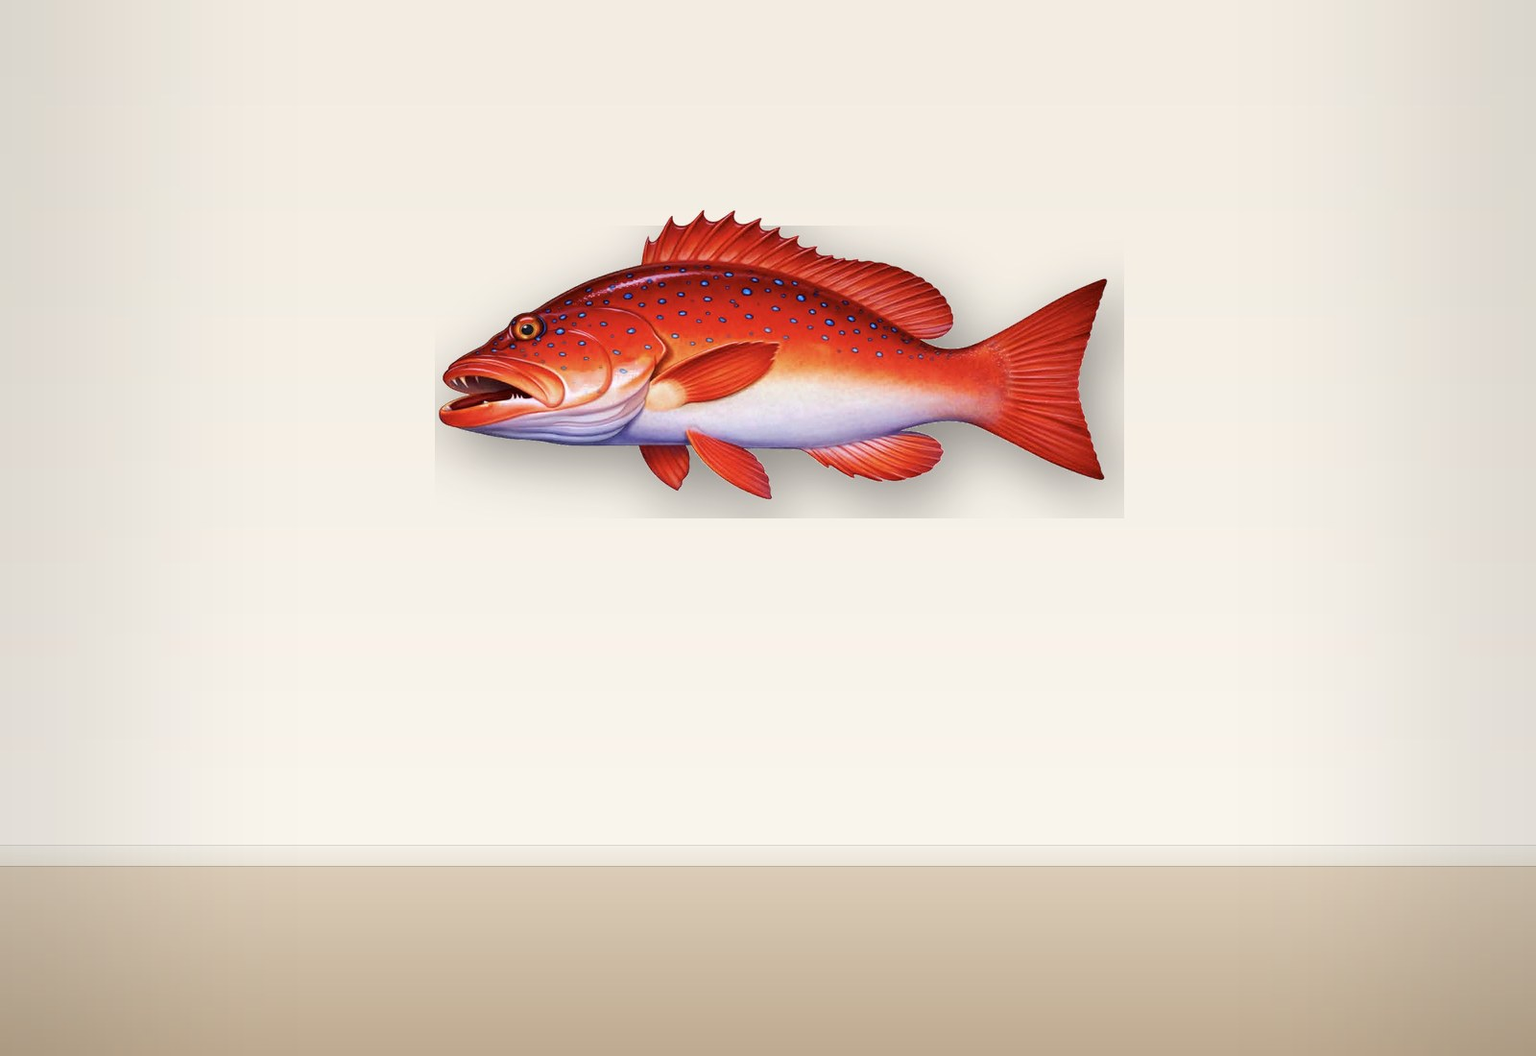
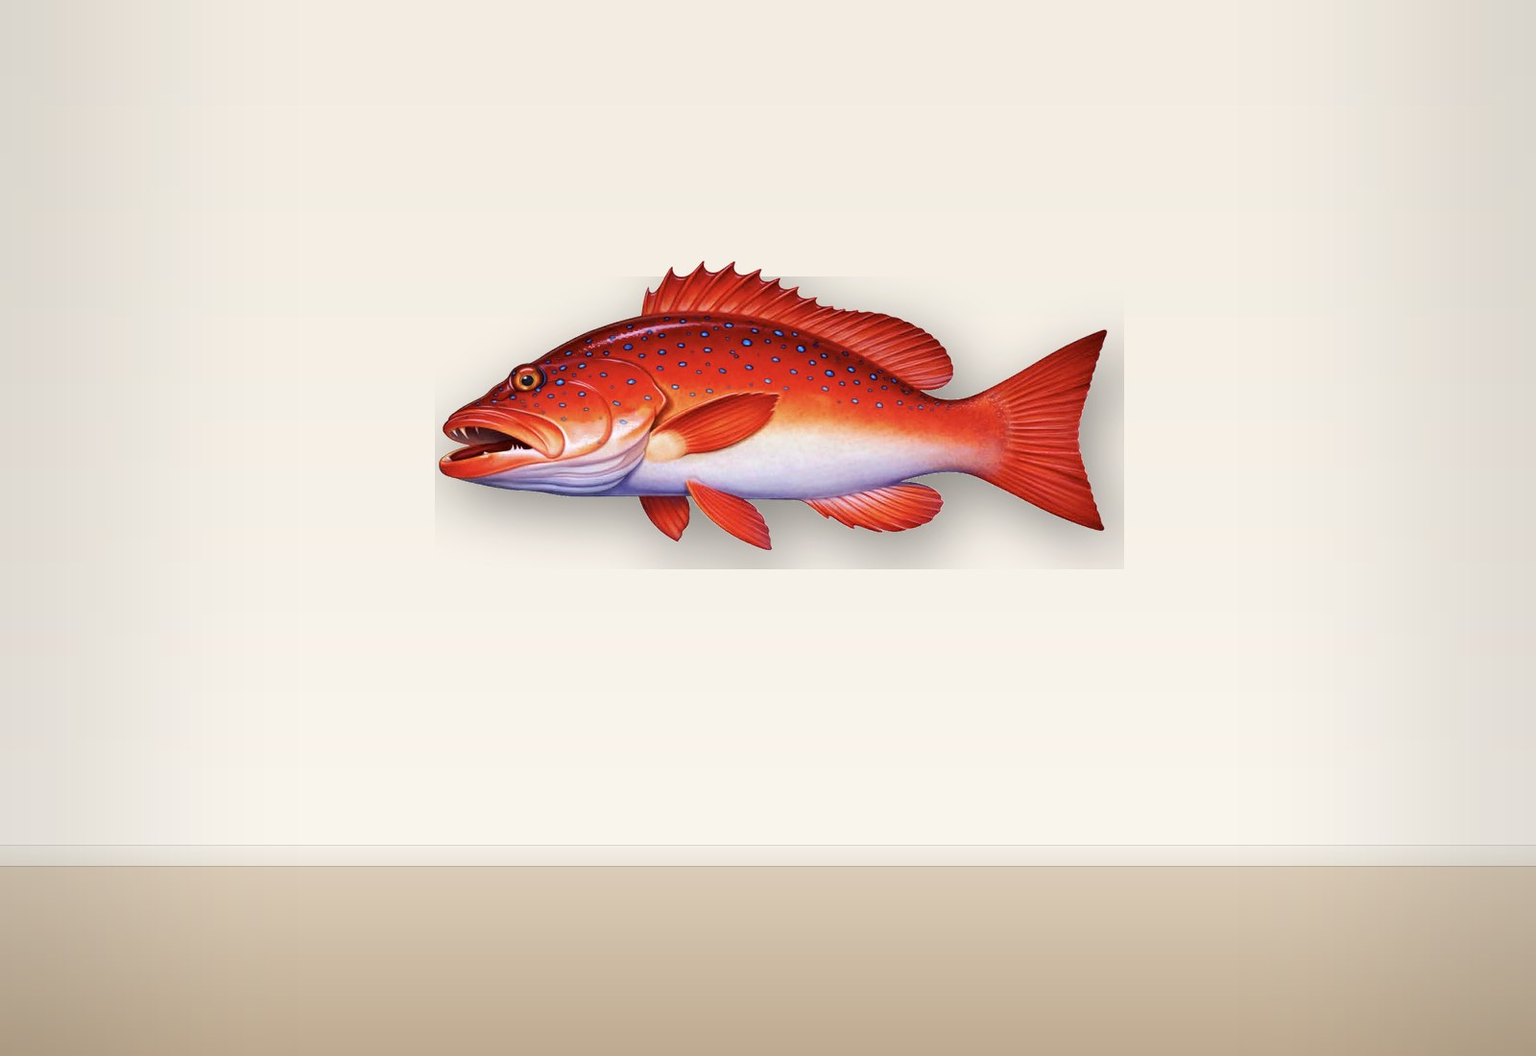
Wall mockups: full catalogue + auto-add to PDP gallery
Generated wall-mounted mockups for all 89 products via
scripts/wall-mockup-batch.py (the four pieces that don't have a real
photo yet — Dhufish, Kingfish, Bream, Permit, etc — were skipped, no
source image to composite).

Wired into the PDP gallery with a small auto-derivation in app.js:
each product's image path gets a `-wall.jpg` sibling looked up on the
fly. Result:
- Single-image products now show a 2-thumbnail gallery (Cutout / On the wall)
- Multi-image products (Coral Trout, HQ Monaro, Australian Sport-Fish
  Map, Barramundi, Spangled Emperor, Maori Wrasse, VH Charger, Red
  Emperor Snapper) get the wall mockup appended as the final thumbnail

No PRODUCTS array edits needed — the file naming convention does the
matchmaking. Cache version bumped to 11.

Changed region(s): [[0.2812, 0.1855, 0.75, 0.5564]]

diff --git a/shop.html b/shop.html
@@ -8,10 +8,10 @@
 <link rel="preconnect" href="https://fonts.googleapis.com" />
 <link rel="preconnect" href="https://fonts.gstatic.com" crossorigin />
 <link href="https://fonts.googleapis.com/css2?family=Cormorant+Garamond:wght@400;500;600;700&family=Cinzel:wght@400;500;600;700&family=Inter:wght@300;400;500;600;700&family=Great+Vibes&family=Dancing+Script:wght@500;600&display=swap" rel="stylesheet" />
-<link rel="stylesheet" href="assets/styles.css?v=20260427-10" />
-<link rel="icon" type="image/png" sizes="32x32" href="assets/favicon-32.png?v=20260427-10" />
-<link rel="icon" type="image/png" sizes="16x16" href="assets/favicon-16.png?v=20260427-10" />
-<link rel="apple-touch-icon" sizes="180x180" href="assets/apple-touch-icon.png?v=20260427-10" />
+<link rel="stylesheet" href="assets/styles.css?v=20260427-11" />
+<link rel="icon" type="image/png" sizes="32x32" href="assets/favicon-32.png?v=20260427-11" />
+<link rel="icon" type="image/png" sizes="16x16" href="assets/favicon-16.png?v=20260427-11" />
+<link rel="apple-touch-icon" sizes="180x180" href="assets/apple-touch-icon.png?v=20260427-11" />
 <link rel="manifest" href="manifest.webmanifest" />
 <meta name="theme-color" content="#1c130a" />
 <meta name="apple-mobile-web-app-capable" content="yes" />
@@ -24,7 +24,7 @@
 <header class="site-nav" id="siteNav">
   <div class="nav-inner">
     <a href="index.html" class="brand">
-      <span class="brand-mark"><img src="assets/logos/logo-mark-96.png?v=20260427-10" alt="Crystal Brook Wall Mounts emblem" width="64" height="64" style="display:block;border-radius:7px;" /></span>
+      <span class="brand-mark"><img src="assets/logos/logo-mark-96.png?v=20260427-11" alt="Crystal Brook Wall Mounts emblem" width="64" height="64" style="display:block;border-radius:7px;" /></span>
       <span class="brand-text">
         <span class="brand-name">Crystal Brook</span>
         <span class="brand-sub">Wall Mounts</span>
@@ -314,7 +314,7 @@
 <!-- ============ PWA INSTALL PROMPT ============ -->
 <div class="pwa-install" id="pwaInstall" hidden role="dialog" aria-labelledby="pwaInstallTitle">
   <div class="pwa-install-mark" aria-hidden="true">
-    <img src="assets/logos/logo-mark-96.png?v=20260427-10" alt="" width="44" height="44" style="display:block;border-radius:6px;"/>
+    <img src="assets/logos/logo-mark-96.png?v=20260427-11" alt="" width="44" height="44" style="display:block;border-radius:6px;"/>
   </div>
   <div class="pwa-install-copy">
     <strong id="pwaInstallTitle">Add Crystal Brook to your home screen</strong>
@@ -453,7 +453,7 @@
 <aside class="nav-drawer" id="navDrawer" aria-hidden="true" aria-label="Mobile navigation">
   <div class="nav-drawer-head">
     <span class="brand">
-      <span class="brand-mark"><img src="assets/logos/logo-mark-96.png?v=20260427-10" alt="Crystal Brook Wall Mounts emblem" width="64" height="64" style="display:block;border-radius:7px;" /></span>
+      <span class="brand-mark"><img src="assets/logos/logo-mark-96.png?v=20260427-11" alt="Crystal Brook Wall Mounts emblem" width="64" height="64" style="display:block;border-radius:7px;" /></span>
       <span class="brand-text">
         <span class="brand-name">Crystal Brook</span>
         <span class="brand-sub">Wall Mounts</span>
@@ -481,6 +481,6 @@
 <!-- ============ TOAST ============ -->
 <div class="toast" id="toast" role="status" aria-live="polite"></div>
 
-<script src="assets/app.js?v=20260427-10"></script>
+<script src="assets/app.js?v=20260427-11"></script>
 </body>
 </html>

diff --git a/index.html b/index.html
@@ -8,10 +8,10 @@
 <link rel="preconnect" href="https://fonts.googleapis.com" />
 <link rel="preconnect" href="https://fonts.gstatic.com" crossorigin />
 <link href="https://fonts.googleapis.com/css2?family=Cormorant+Garamond:wght@400;500;600;700&family=Cinzel:wght@400;500;600;700&family=Inter:wght@300;400;500;600;700&family=Great+Vibes&family=Dancing+Script:wght@500;600&display=swap" rel="stylesheet" />
-<link rel="stylesheet" href="assets/styles.css?v=20260427-10" />
-<link rel="icon" type="image/png" sizes="32x32" href="assets/favicon-32.png?v=20260427-10" />
-<link rel="icon" type="image/png" sizes="16x16" href="assets/favicon-16.png?v=20260427-10" />
-<link rel="apple-touch-icon" sizes="180x180" href="assets/apple-touch-icon.png?v=20260427-10" />
+<link rel="stylesheet" href="assets/styles.css?v=20260427-11" />
+<link rel="icon" type="image/png" sizes="32x32" href="assets/favicon-32.png?v=20260427-11" />
+<link rel="icon" type="image/png" sizes="16x16" href="assets/favicon-16.png?v=20260427-11" />
+<link rel="apple-touch-icon" sizes="180x180" href="assets/apple-touch-icon.png?v=20260427-11" />
 <link rel="manifest" href="manifest.webmanifest" />
 <meta name="theme-color" content="#1c130a" />
 <meta name="apple-mobile-web-app-capable" content="yes" />
@@ -24,7 +24,7 @@
 <header class="site-nav" id="siteNav">
   <div class="nav-inner">
     <a href="#top" class="brand">
-      <span class="brand-mark"><img src="assets/logos/logo-mark-96.png?v=20260427-10" alt="Crystal Brook Wall Mounts emblem" width="64" height="64" style="display:block;border-radius:7px;" /></span>
+      <span class="brand-mark"><img src="assets/logos/logo-mark-96.png?v=20260427-11" alt="Crystal Brook Wall Mounts emblem" width="64" height="64" style="display:block;border-radius:7px;" /></span>
       <span class="brand-text">
         <span class="brand-name">Crystal Brook</span>
         <span class="brand-sub">Wall Mounts</span>
@@ -207,7 +207,7 @@
 <!-- ============ PWA INSTALL PROMPT ============ -->
 <div class="pwa-install" id="pwaInstall" hidden role="dialog" aria-labelledby="pwaInstallTitle">
   <div class="pwa-install-mark" aria-hidden="true">
-    <img src="assets/logos/logo-mark-96.png?v=20260427-10" alt="" width="44" height="44" style="display:block;border-radius:6px;"/>
+    <img src="assets/logos/logo-mark-96.png?v=20260427-11" alt="" width="44" height="44" style="display:block;border-radius:6px;"/>
   </div>
   <div class="pwa-install-copy">
     <strong id="pwaInstallTitle">Add Crystal Brook to your home screen</strong>
@@ -355,7 +355,7 @@
 <aside class="nav-drawer" id="navDrawer" aria-hidden="true" aria-label="Mobile navigation">
   <div class="nav-drawer-head">
     <span class="brand">
-      <span class="brand-mark"><img src="assets/logos/logo-mark-96.png?v=20260427-10" alt="Crystal Brook Wall Mounts emblem" width="64" height="64" style="display:block;border-radius:7px;" /></span>
+      <span class="brand-mark"><img src="assets/logos/logo-mark-96.png?v=20260427-11" alt="Crystal Brook Wall Mounts emblem" width="64" height="64" style="display:block;border-radius:7px;" /></span>
       <span class="brand-text">
         <span class="brand-name">Crystal Brook</span>
         <span class="brand-sub">Wall Mounts</span>
@@ -383,6 +383,6 @@
 <!-- ============ TOAST ============ -->
 <div class="toast" id="toast" role="status" aria-live="polite"></div>
 
-<script src="assets/app.js?v=20260427-10"></script>
+<script src="assets/app.js?v=20260427-11"></script>
 </body>
 </html>

diff --git a/about.html b/about.html
@@ -8,10 +8,10 @@
 <link rel="preconnect" href="https://fonts.googleapis.com" />
 <link rel="preconnect" href="https://fonts.gstatic.com" crossorigin />
 <link href="https://fonts.googleapis.com/css2?family=Cormorant+Garamond:wght@400;500;600;700&family=Inter:wght@300;400;500;600;700&display=swap" rel="stylesheet" />
-<link rel="stylesheet" href="assets/styles.css?v=20260427-10" />
-<link rel="icon" type="image/png" sizes="32x32" href="assets/favicon-32.png?v=20260427-10" />
-<link rel="icon" type="image/png" sizes="16x16" href="assets/favicon-16.png?v=20260427-10" />
-<link rel="apple-touch-icon" sizes="180x180" href="assets/apple-touch-icon.png?v=20260427-10" />
+<link rel="stylesheet" href="assets/styles.css?v=20260427-11" />
+<link rel="icon" type="image/png" sizes="32x32" href="assets/favicon-32.png?v=20260427-11" />
+<link rel="icon" type="image/png" sizes="16x16" href="assets/favicon-16.png?v=20260427-11" />
+<link rel="apple-touch-icon" sizes="180x180" href="assets/apple-touch-icon.png?v=20260427-11" />
 <link rel="manifest" href="manifest.webmanifest" />
 <meta name="theme-color" content="#ffffff" />
 <meta name="apple-mobile-web-app-capable" content="yes" />
@@ -294,7 +294,7 @@
 <header class="site-nav" id="siteNav">
   <div class="nav-inner">
     <a href="index.html" class="brand">
-      <span class="brand-mark"><img src="assets/logos/logo-mark-96.png?v=20260427-10" alt="Crystal Brook Wall Mounts emblem" width="64" height="64" style="display:block;border-radius:7px;" /></span>
+      <span class="brand-mark"><img src="assets/logos/logo-mark-96.png?v=20260427-11" alt="Crystal Brook Wall Mounts emblem" width="64" height="64" style="display:block;border-radius:7px;" /></span>
       <span class="brand-text">
         <span class="brand-name">Crystal Brook</span>
         <span class="brand-sub">Wall Mounts</span>
@@ -343,7 +343,7 @@
     </div>
     <div>
       <div class="about-portrait">
-        <img src="assets/images/max-portrait.jpg?v=20260427-10" alt="Max White on the FNQ coast holding one of his torched-wood shark mounts" />
+        <img src="assets/images/max-portrait.jpg?v=20260427-11" alt="Max White on the FNQ coast holding one of his torched-wood shark mounts" />
       </div>
       <p class="about-portrait-cap">Max with one of his torched-shark pieces, on the coast just south of Gordonvale.</p>
     </div>
@@ -473,7 +473,7 @@
 <aside class="nav-drawer" id="navDrawer" aria-hidden="true" aria-label="Mobile navigation">
   <div class="nav-drawer-head">
     <span class="brand">
-      <span class="brand-mark"><img src="assets/logos/logo-mark-96.png?v=20260427-10" alt="Crystal Brook Wall Mounts emblem" width="64" height="64" style="display:block;border-radius:7px;" /></span>
+      <span class="brand-mark"><img src="assets/logos/logo-mark-96.png?v=20260427-11" alt="Crystal Brook Wall Mounts emblem" width="64" height="64" style="display:block;border-radius:7px;" /></span>
       <span class="brand-text">
         <span class="brand-name">Crystal Brook</span>
         <span class="brand-sub">Wall Mounts</span>
@@ -501,6 +501,6 @@
 <!-- ============ TOAST ============ -->
 <div class="toast" id="toast" role="status" aria-live="polite"></div>
 
-<script src="assets/app.js?v=20260427-10"></script>
+<script src="assets/app.js?v=20260427-11"></script>
 </body>
 </html>

diff --git a/order.html b/order.html
@@ -8,10 +8,10 @@
 <link rel="preconnect" href="https://fonts.googleapis.com" />
 <link rel="preconnect" href="https://fonts.gstatic.com" crossorigin />
 <link href="https://fonts.googleapis.com/css2?family=Cormorant+Garamond:wght@400;500;600;700&family=Cinzel:wght@400;500;600;700&family=Inter:wght@300;400;500;600;700&display=swap" rel="stylesheet" />
-<link rel="stylesheet" href="assets/styles.css?v=20260427-10" />
-<link rel="icon" type="image/png" sizes="32x32" href="assets/favicon-32.png?v=20260427-10" />
-<link rel="icon" type="image/png" sizes="16x16" href="assets/favicon-16.png?v=20260427-10" />
-<link rel="apple-touch-icon" sizes="180x180" href="assets/apple-touch-icon.png?v=20260427-10" />
+<link rel="stylesheet" href="assets/styles.css?v=20260427-11" />
+<link rel="icon" type="image/png" sizes="32x32" href="assets/favicon-32.png?v=20260427-11" />
+<link rel="icon" type="image/png" sizes="16x16" href="assets/favicon-16.png?v=20260427-11" />
+<link rel="apple-touch-icon" sizes="180x180" href="assets/apple-touch-icon.png?v=20260427-11" />
 <link rel="manifest" href="manifest.webmanifest" />
 <meta name="theme-color" content="#1c130a" />
 <meta name="apple-mobile-web-app-capable" content="yes" />
@@ -24,7 +24,7 @@
 <header class="site-nav" id="siteNav">
   <div class="nav-inner">
     <a href="index.html" class="brand">
-      <span class="brand-mark"><img src="assets/logos/logo-mark-96.png?v=20260427-10" alt="Crystal Brook Wall Mounts emblem" width="64" height="64" style="display:block;border-radius:7px;" /></span>
+      <span class="brand-mark"><img src="assets/logos/logo-mark-96.png?v=20260427-11" alt="Crystal Brook Wall Mounts emblem" width="64" height="64" style="display:block;border-radius:7px;" /></span>
       <span class="brand-text">
         <span class="brand-name">Crystal Brook</span>
         <span class="brand-sub">Wall Mounts</span>
@@ -187,7 +187,7 @@
 <aside class="nav-drawer" id="navDrawer" aria-hidden="true" aria-label="Mobile navigation">
   <div class="nav-drawer-head">
     <span class="brand">
-      <span class="brand-mark"><img src="assets/logos/logo-mark-96.png?v=20260427-10" alt="Crystal Brook Wall Mounts emblem" width="64" height="64" style="display:block;border-radius:7px;" /></span>
+      <span class="brand-mark"><img src="assets/logos/logo-mark-96.png?v=20260427-11" alt="Crystal Brook Wall Mounts emblem" width="64" height="64" style="display:block;border-radius:7px;" /></span>
       <span class="brand-text"><span class="brand-name">Crystal Brook</span><span class="brand-sub">Wall Mounts</span></span>
     </span>
     <button class="icon-btn" id="navDrawerClose" aria-label="Close menu" type="button">
@@ -212,6 +212,6 @@
 <!-- ============ TOAST ============ -->
 <div class="toast" id="toast" role="status" aria-live="polite"></div>
 
-<script src="assets/app.js?v=20260427-10"></script>
+<script src="assets/app.js?v=20260427-11"></script>
 </body>
 </html>

diff --git a/product.html b/product.html
@@ -8,10 +8,10 @@
 <link rel="preconnect" href="https://fonts.googleapis.com" />
 <link rel="preconnect" href="https://fonts.gstatic.com" crossorigin />
 <link href="https://fonts.googleapis.com/css2?family=Cormorant+Garamond:wght@400;500;600;700&family=Cinzel:wght@400;500;600;700&family=Inter:wght@300;400;500;600;700&family=Great+Vibes&family=Dancing+Script:wght@500;600&display=swap" rel="stylesheet" />
-<link rel="stylesheet" href="assets/styles.css?v=20260427-10" />
-<link rel="icon" type="image/png" sizes="32x32" href="assets/favicon-32.png?v=20260427-10" />
-<link rel="icon" type="image/png" sizes="16x16" href="assets/favicon-16.png?v=20260427-10" />
-<link rel="apple-touch-icon" sizes="180x180" href="assets/apple-touch-icon.png?v=20260427-10" />
+<link rel="stylesheet" href="assets/styles.css?v=20260427-11" />
+<link rel="icon" type="image/png" sizes="32x32" href="assets/favicon-32.png?v=20260427-11" />
+<link rel="icon" type="image/png" sizes="16x16" href="assets/favicon-16.png?v=20260427-11" />
+<link rel="apple-touch-icon" sizes="180x180" href="assets/apple-touch-icon.png?v=20260427-11" />
 <link rel="manifest" href="manifest.webmanifest" />
 <meta name="theme-color" content="#1c130a" />
 <meta name="apple-mobile-web-app-capable" content="yes" />
@@ -24,7 +24,7 @@
 <header class="site-nav" id="siteNav">
   <div class="nav-inner">
     <a href="index.html" class="brand">
-      <span class="brand-mark"><img src="assets/logos/logo-mark-96.png?v=20260427-10" alt="Crystal Brook Wall Mounts emblem" width="64" height="64" style="display:block;border-radius:7px;" /></span>
+      <span class="brand-mark"><img src="assets/logos/logo-mark-96.png?v=20260427-11" alt="Crystal Brook Wall Mounts emblem" width="64" height="64" style="display:block;border-radius:7px;" /></span>
       <span class="brand-text">
         <span class="brand-name">Crystal Brook</span>
         <span class="brand-sub">Wall Mounts</span>
@@ -316,7 +316,7 @@
 <aside class="nav-drawer" id="navDrawer" aria-hidden="true" aria-label="Mobile navigation">
   <div class="nav-drawer-head">
     <span class="brand">
-      <span class="brand-mark"><img src="assets/logos/logo-mark-96.png?v=20260427-10" alt="Crystal Brook Wall Mounts emblem" width="64" height="64" style="display:block;border-radius:7px;" /></span>
+      <span class="brand-mark"><img src="assets/logos/logo-mark-96.png?v=20260427-11" alt="Crystal Brook Wall Mounts emblem" width="64" height="64" style="display:block;border-radius:7px;" /></span>
       <span class="brand-text">
         <span class="brand-name">Crystal Brook</span>
         <span class="brand-sub">Wall Mounts</span>
@@ -344,6 +344,6 @@
 <!-- ============ TOAST ============ -->
 <div class="toast" id="toast" role="status" aria-live="polite"></div>
 
-<script src="assets/app.js?v=20260427-10"></script>
+<script src="assets/app.js?v=20260427-11"></script>
 </body>
 </html>

diff --git a/404.html b/404.html
@@ -8,10 +8,10 @@
 <link rel="preconnect" href="https://fonts.googleapis.com" />
 <link rel="preconnect" href="https://fonts.gstatic.com" crossorigin />
 <link href="https://fonts.googleapis.com/css2?family=Cormorant+Garamond:wght@400;500;600;700&family=Cinzel:wght@400;500;600;700&family=Inter:wght@300;400;500;600;700&display=swap" rel="stylesheet" />
-<link rel="stylesheet" href="assets/styles.css?v=20260427-10" />
-<link rel="icon" type="image/png" sizes="32x32" href="assets/favicon-32.png?v=20260427-10" />
-<link rel="icon" type="image/png" sizes="16x16" href="assets/favicon-16.png?v=20260427-10" />
-<link rel="apple-touch-icon" sizes="180x180" href="assets/apple-touch-icon.png?v=20260427-10" />
+<link rel="stylesheet" href="assets/styles.css?v=20260427-11" />
+<link rel="icon" type="image/png" sizes="32x32" href="assets/favicon-32.png?v=20260427-11" />
+<link rel="icon" type="image/png" sizes="16x16" href="assets/favicon-16.png?v=20260427-11" />
+<link rel="apple-touch-icon" sizes="180x180" href="assets/apple-touch-icon.png?v=20260427-11" />
 <link rel="manifest" href="manifest.webmanifest" />
 <meta name="theme-color" content="#1c130a" />
 </head>
@@ -21,7 +21,7 @@
 <header class="site-nav" id="siteNav">
   <div class="nav-inner">
     <a href="index.html" class="brand">
-      <span class="brand-mark"><img src="assets/logos/logo-mark-96.png?v=20260427-10" alt="Crystal Brook Wall Mounts emblem" width="64" height="64" style="display:block;border-radius:7px;" /></span>
+      <span class="brand-mark"><img src="assets/logos/logo-mark-96.png?v=20260427-11" alt="Crystal Brook Wall Mounts emblem" width="64" height="64" style="display:block;border-radius:7px;" /></span>
       <span class="brand-text">
         <span class="brand-name">Crystal Brook</span>
         <span class="brand-sub">Wall Mounts</span>

diff --git a/policies.html b/policies.html
@@ -8,10 +8,10 @@
 <link rel="preconnect" href="https://fonts.googleapis.com" />
 <link rel="preconnect" href="https://fonts.gstatic.com" crossorigin />
 <link href="https://fonts.googleapis.com/css2?family=Cormorant+Garamond:wght@400;500;600;700&family=Cinzel:wght@400;500;600;700&family=Inter:wght@300;400;500;600;700&display=swap" rel="stylesheet" />
-<link rel="stylesheet" href="assets/styles.css?v=20260427-10" />
-<link rel="icon" type="image/png" sizes="32x32" href="assets/favicon-32.png?v=20260427-10" />
-<link rel="icon" type="image/png" sizes="16x16" href="assets/favicon-16.png?v=20260427-10" />
-<link rel="apple-touch-icon" sizes="180x180" href="assets/apple-touch-icon.png?v=20260427-10" />
+<link rel="stylesheet" href="assets/styles.css?v=20260427-11" />
+<link rel="icon" type="image/png" sizes="32x32" href="assets/favicon-32.png?v=20260427-11" />
+<link rel="icon" type="image/png" sizes="16x16" href="assets/favicon-16.png?v=20260427-11" />
+<link rel="apple-touch-icon" sizes="180x180" href="assets/apple-touch-icon.png?v=20260427-11" />
 <link rel="manifest" href="manifest.webmanifest" />
 <meta name="theme-color" content="#1c130a" />
 </head>
@@ -21,7 +21,7 @@
 <header class="site-nav" id="siteNav">
   <div class="nav-inner">
     <a href="index.html" class="brand">
-      <span class="brand-mark"><img src="assets/logos/logo-mark-96.png?v=20260427-10" alt="Crystal Brook Wall Mounts emblem" width="64" height="64" style="display:block;border-radius:7px;" /></span>
+      <span class="brand-mark"><img src="assets/logos/logo-mark-96.png?v=20260427-11" alt="Crystal Brook Wall Mounts emblem" width="64" height="64" style="display:block;border-radius:7px;" /></span>
       <span class="brand-text">
         <span class="brand-name">Crystal Brook</span>
         <span class="brand-sub">Wall Mounts</span>

diff --git a/admin/index.html b/admin/index.html
@@ -7,10 +7,10 @@
 <link rel="preconnect" href="https://fonts.googleapis.com" />
 <link rel="preconnect" href="https://fonts.gstatic.com" crossorigin />
 <link href="https://fonts.googleapis.com/css2?family=Cormorant+Garamond:wght@500;600;700&family=Inter:wght@300;400;500;600;700&display=swap" rel="stylesheet" />
-<link rel="stylesheet" href="../assets/admin.css?v=20260427-10" />
-<link rel="icon" type="image/png" sizes="32x32" href="assets/favicon-32.png?v=20260427-10" />
-<link rel="icon" type="image/png" sizes="16x16" href="assets/favicon-16.png?v=20260427-10" />
-<link rel="apple-touch-icon" sizes="180x180" href="assets/apple-touch-icon.png?v=20260427-10" />
+<link rel="stylesheet" href="../assets/admin.css?v=20260427-11" />
+<link rel="icon" type="image/png" sizes="32x32" href="assets/favicon-32.png?v=20260427-11" />
+<link rel="icon" type="image/png" sizes="16x16" href="assets/favicon-16.png?v=20260427-11" />
+<link rel="apple-touch-icon" sizes="180x180" href="assets/apple-touch-icon.png?v=20260427-11" />
 <link rel="manifest" href="../manifest.webmanifest" />
 <meta name="theme-color" content="#1c130a" />
 <meta name="apple-mobile-web-app-capable" content="yes" />
@@ -579,6 +579,6 @@ Signed, numbered and wrapped for shipping</textarea></label>
 
 <div class="toast" id="toast" role="status" aria-live="polite"></div>
 
-<script src="../assets/admin.js?v=20260427-10"></script>
+<script src="../assets/admin.js?v=20260427-11"></script>
 </body>
 </html>

diff --git a/assets/app.js b/assets/app.js
@@ -2136,11 +2136,28 @@ document.addEventListener('keydown', e=>{
   // Each gallery item: { src, alt, label, type? = 'image' | 'video' }
   // Falls back to a single-image stage when product.gallery is unset.
   const stage = document.getElementById('pdpStage');
-  const gallery = Array.isArray(product.gallery) && product.gallery.length
-    ? product.gallery
+
+  // Auto-derive an "on the wall" mockup path from the main image, e.g.
+  // `coral-trout-vivid.png` -> `coral-trout-vivid-wall.jpg`. The script
+  // scripts/wall-mockup-batch.py generates these for every product; if a
+  // particular file is missing the thumbnail just 404s.
+  function wallMockupSrc(image){
+    if (!image) return null;
+    return image.replace(/\.(png|jpe?g)$/i, '-wall.jpg');
+  }
+  const wallSrc = wallMockupSrc(product.image);
+
+  let gallery = Array.isArray(product.gallery) && product.gallery.length
+    ? product.gallery.slice()
     : (product.image
-        ? [{ src: product.image, alt: product.name, label: 'Main' }]
+        ? [{ src: product.image, alt: product.name, label: 'Cutout' }]
         : []);
+
+  // Append the on-the-wall mockup as a final gallery item (unless it's
+  // already in the explicit gallery list).
+  if (wallSrc && !gallery.some(g => g.src === wallSrc)) {
+    gallery.push({ src: wallSrc, alt: `${product.name} — on the wall`, label: 'On the wall' });
+  }
 
   function stageHTML(item){
     if (!item) {

diff --git a/sw.js b/sw.js
@@ -6,7 +6,7 @@
  *   - Offline fallback to cached index.html for navigation
  */
 
-const VERSION = 'cbwm-2026-04-27-10';
+const VERSION = 'cbwm-2026-04-27-11';
 const SHELL_CACHE = `${VERSION}-shell`;
 const RUNTIME_CACHE = `${VERSION}-runtime`;
 
